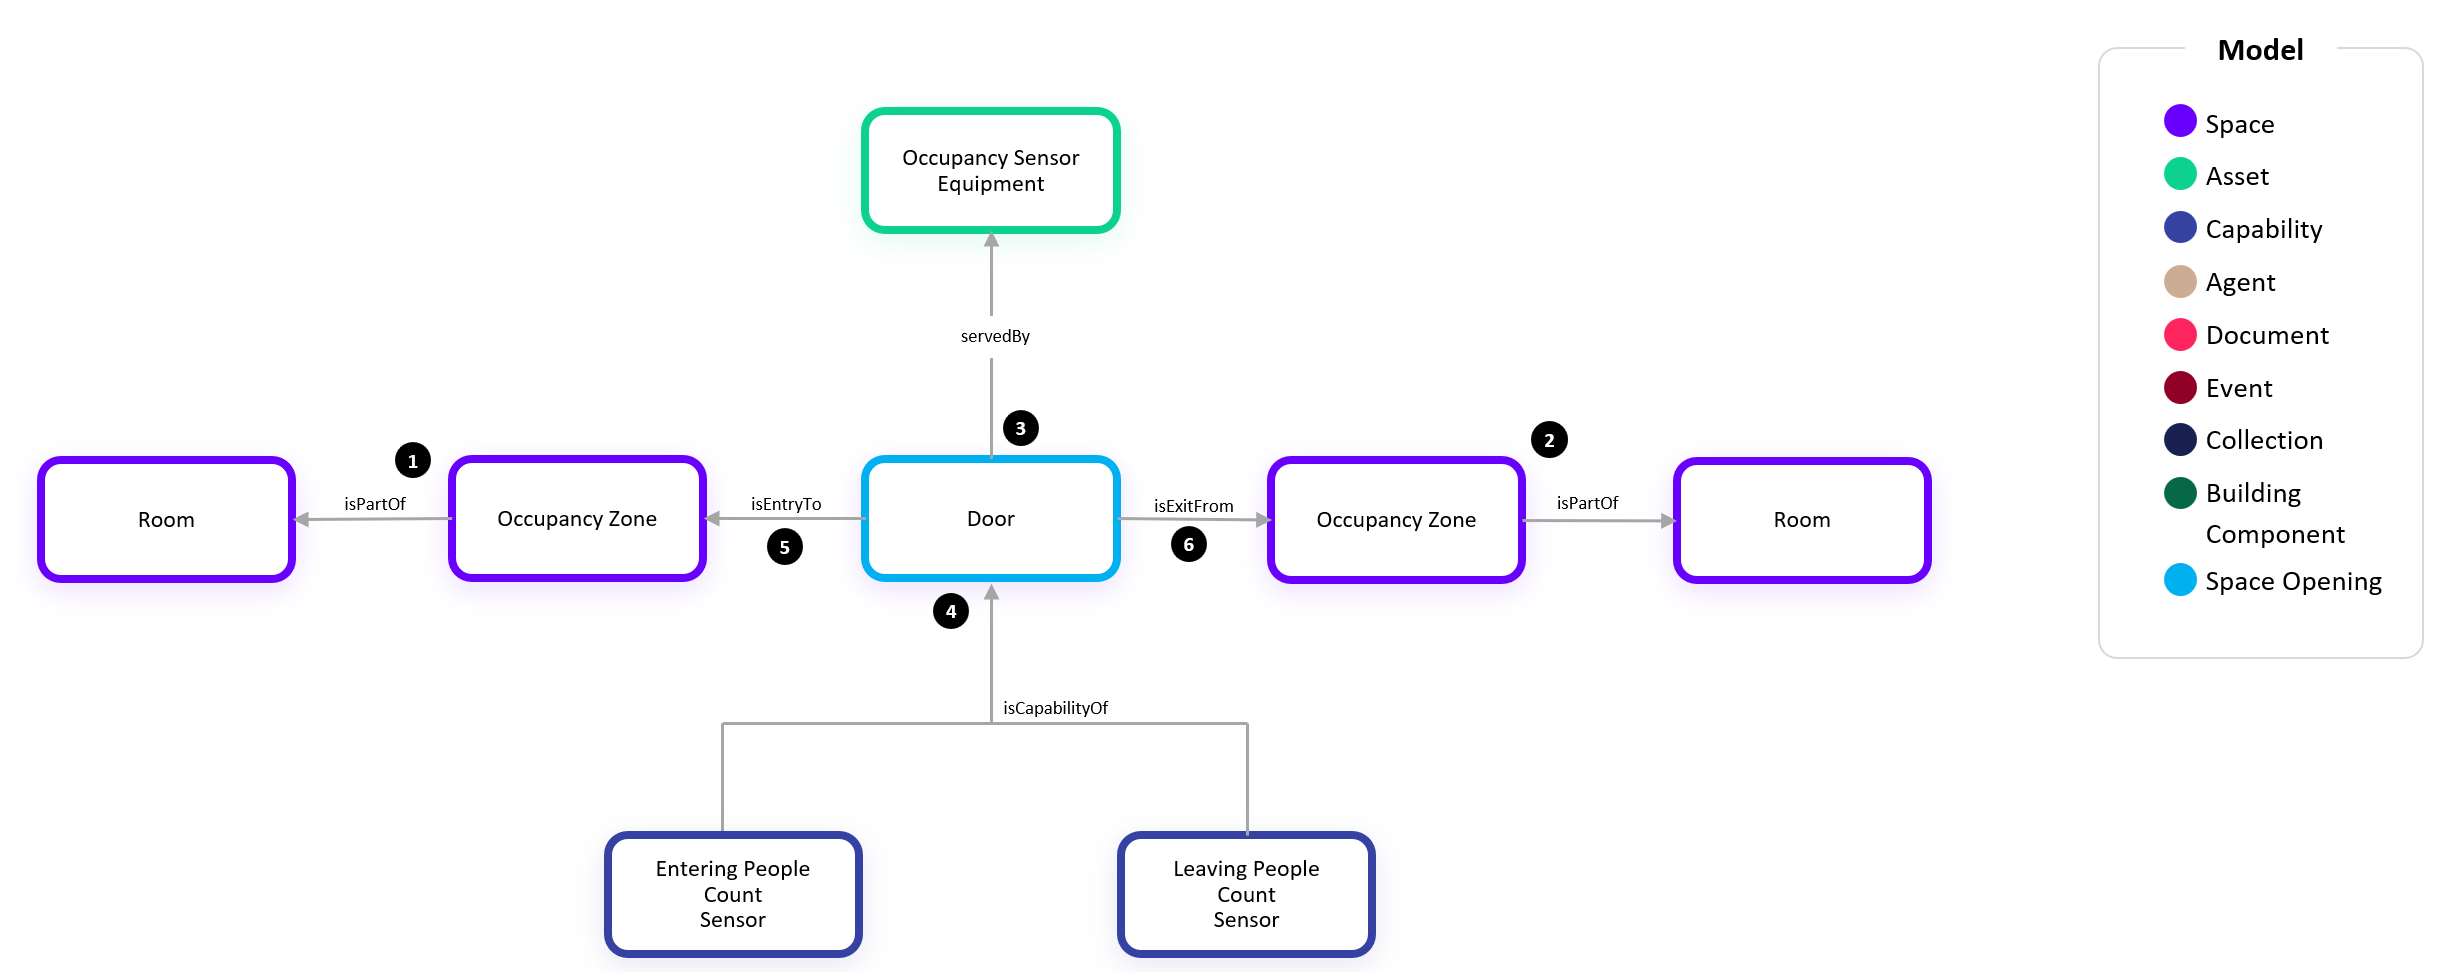
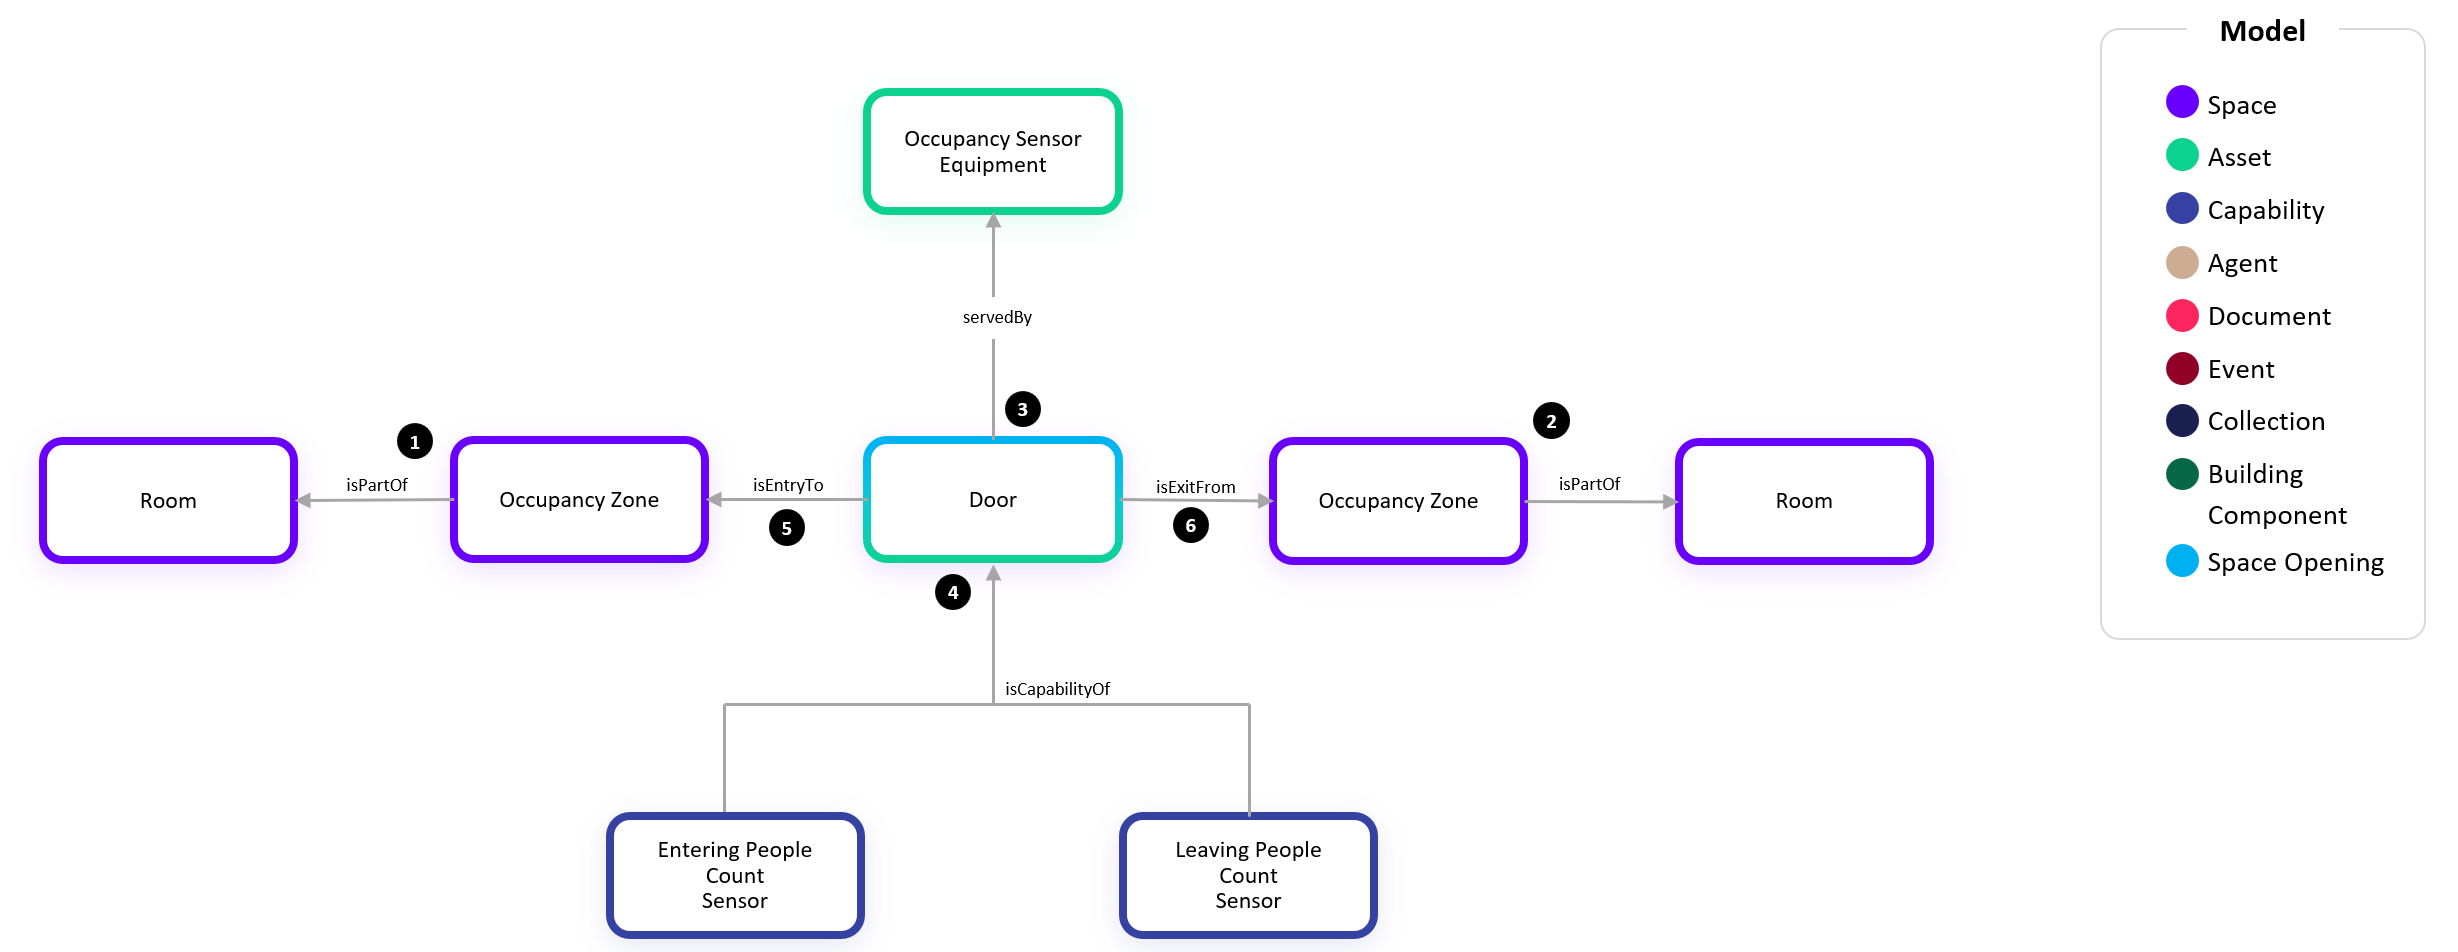
Update to samples

diff --git a/Samples/09-Occupancy.md b/Samples/09-Occupancy.md
@@ -62,7 +62,7 @@ This example depicts that an Occupancy Zone may be equipped with sensors that me
 
 1. As with the previous examples, the Occupancy Zone is part of a Room.
 
-2. The Occupancy Zone in this example contains two Openings, such as a corridor with two ends, which allow the passage of people that are being counted in and out of the zone. These openings could be physical barriers such as doors or access control turnstils or virtual boundaries defined by the sensor equipment. 
+2. The Occupancy Zone in this example contains two Space Openings, such as a corridor with two ends, which allow the passage of people that are being counted in and out of the zone. These openings could be physical barriers such as doors or access control turnstiles or nonphysical boundaries (Nonphysical Space Opening) defined by the sensor equipment. The specific type of Space Opening shown in this example is a Door which is both a Physical Space Opening and Asset in the ontology. 
 
 3. An Opening always has a direction in which its two capabilities, Entering People Count Sensor and Leaving People Count Sensor, have the proper meaning for the flow of people in and out of the Occupancy Zone. When this is the case, we use the isEntryTo relationship from the Opening to the Occupancy Zone. See the Adjacent Zones, Shared Opening example for more explanation around when to use the other relationship, isExitFrom.
 
@@ -83,6 +83,23 @@ This example depicts that an Occupancy Zone opening may be sub-divided into smal
 4. Each of the smaller openings are served by a separate Occupancy Sensor Equipment.
 
 5. Each of the smaller openings also has its own Entering People Count Sensor and Leaving People Count Sensor.
+
+### Divided Openings (Card Access Readers)
+
+![Occupancy-Example8](Images/Occupancy-EnteringLeaving-Example8.png)
+
+This example depicts a divided opening which has multiple turnstiles each with an entry and exit card access reader (aka badge in, badge out) to access a space such as an elevator lobby:
+
+1. As with the previous examples, the Nonphysical Space Opening has an isEntryTo relationship to the Occupancy Zone which represents the elevator lobby.
+
+2. In this example, we have two physical space opening assets which are Turnstiles. Turnstiles are both Assets and Space Openings in the ontology.
+
+3. Each turnstile has an entry card access reader and exit card access reader. As such there are two capabilities, Entering People Count Sensor and Leaving People Count Sensor. These are the total number of person granted access events for entering and leaving through the turnstile.
+
+4. Each Access Reader on the turnstile is designated as the entry (IN) or exit (OUT). Because the isCapabilityOf relationship is already defining the count relative to the parent Turnstile, the hostedBy relationship from the Entering People Count is used to define which reader is used for entry.
+
+5. Similarly, the Access Reader which enables exit is hosting the Leaving People Count Sensor
+
 
 ### Adjacent Zones, Shared Opening
 
